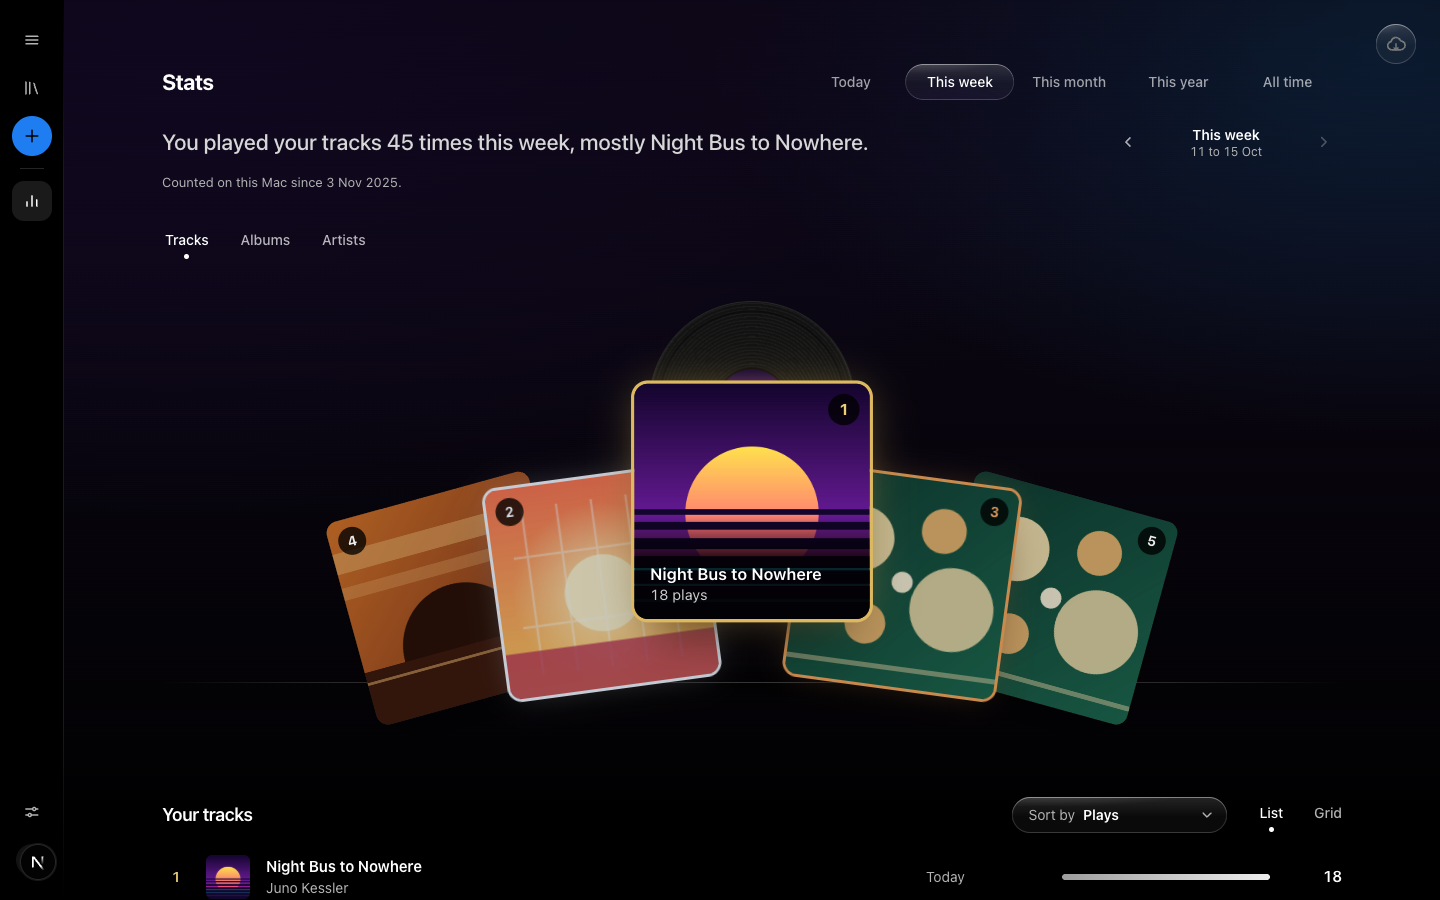
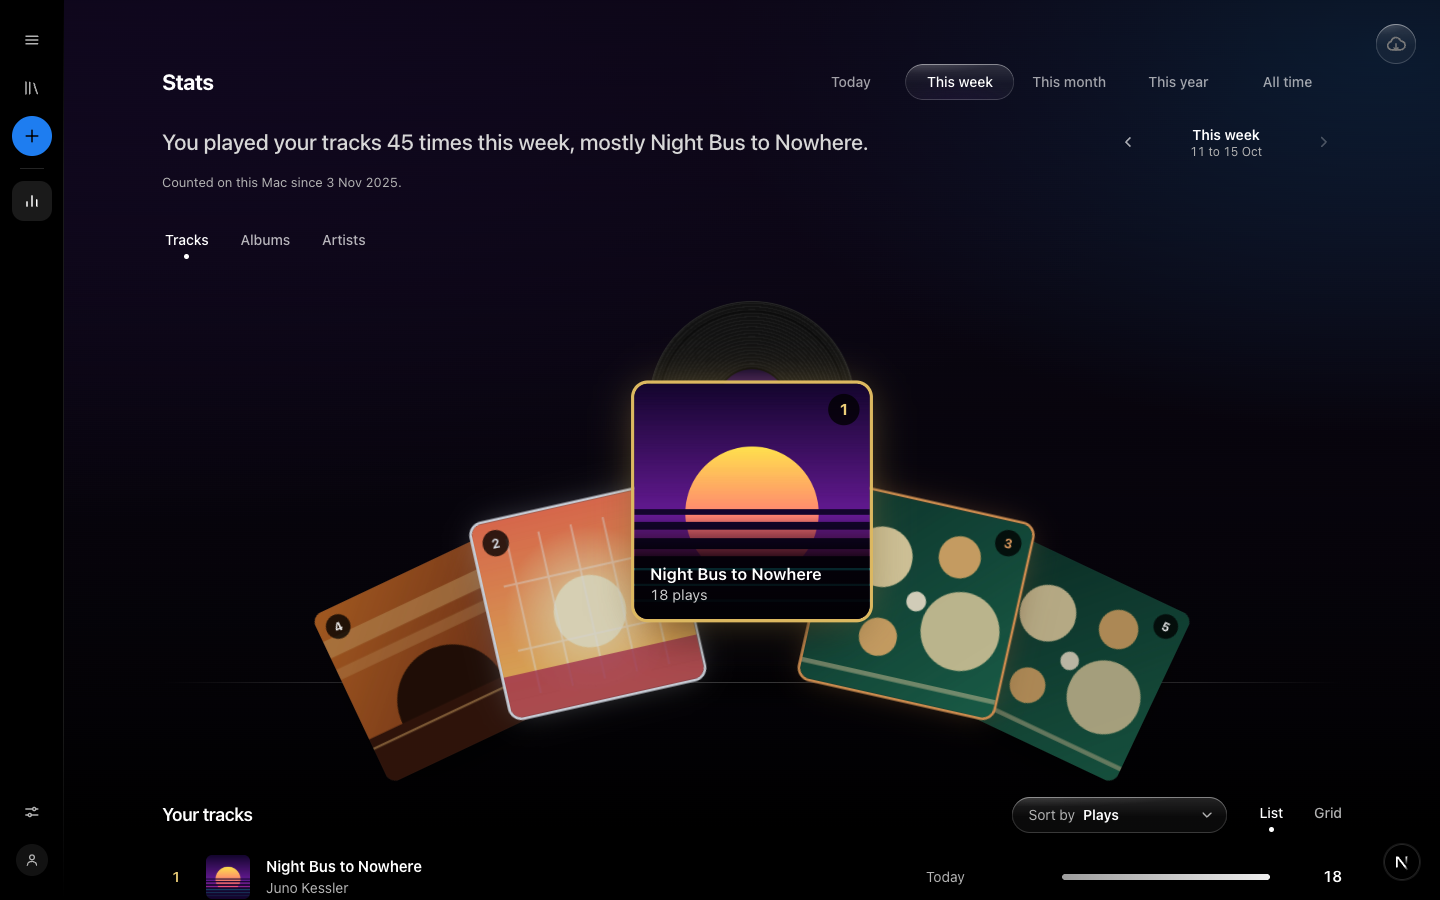
Stats page and shelf: the fan as a wheel of stacked cards, not a spread (#145)
The owner found the sideways spread scrambled; page sleeves now sit on one arc with depth (smaller and darker per step).
The shelf keeps its tight stack of three and gains the same depth and shading.

Claude-Session: https://claude.ai/code/session_016wtvpvRFjMyGctvKw2v9pz

Changed region(s): [[0.5312, 0.4978, 0.8438, 0.8711], [0.2188, 0.4978, 0.5, 0.8711]]

diff --git a/apps/web/src/app/globals.css b/apps/web/src/app/globals.css
@@ -2007,9 +2007,12 @@ body {
  * Stats page (`data-size="page"`, five sleeves, 68 to 210px by the room) are this one set of rules,
  * components/stats/SleeveFan.tsx. Everything is a multiple of --w, the sleeve's width, and the
  * rest of the size is the variables below. Sleeves overlap like a hand of cards, number one in the
- * middle (or the middle of what there is, lib/fan-layout). Per sleeve: --a tilts it, --k orders the
- * fan-out from the middle. The active one lifts, straightens a little and shows its tag, and its
- * record slides out of the top. The fan is tall enough for the lift and for the record.
+ * middle (or the middle of what there is, lib/fan-layout). Per sleeve: --a tilts it, --k is the
+ * steps out from the middle. The page fan is a wheel: every sleeve tilts round one far pivot, so
+ * they sit on one shallow arc, and each step out is a little smaller and darker, like stacked
+ * cards. The shelf keeps its tight stack of three (number one in front) with the same depth and
+ * shade, and no sideways step. The active one lifts, grows, loses its shade, straightens a little and
+ * shows its tag, and its record slides out of the top. The fan is tall enough for the lift and the record.
  * ------------------------------------------------------------------------- */
 .fan {
   --w: 112px;
@@ -2020,29 +2023,40 @@ body {
   --fan-badge-inset: clamp(6px, calc(var(--w) * 0.043), 9px);
   --fan-title: clamp(12px, calc(var(--w) * 0.07), 15px);
   --fan-plays: clamp(11px, calc(var(--w) * 0.062), 13px);
-  /* Page-only extras, off here so the shelf stays as it is: --fan-step moves each sleeve sideways
-     by that many sleeve widths per step from the middle, --fan-tilt scales the tilt, --fan-lift and
-     --fan-pop are how far and how big the active one goes, --fan-dim is the black laid over the rest. */
+  /* The wheel and the stack: --fan-pivot is how far below the sleeve the tilt turns (a bigger
+     number is a shallower arc), --fan-tilt scales each sleeve's angle, --fan-step moves a sleeve
+     sideways by that many sleeve widths per step out (0 keeps all on the arc; unused now), --fan-lift and
+     --fan-pop are how far and how big the active one goes, --fan-depth is how much smaller each step
+     out is, and --fan-shade-base plus --fan-shade per step is the black laid over the others. */
+  --fan-pivot: 330%;
   --fan-step: 0;
   --fan-tilt: 1;
   --fan-lift: 0.232;
   --fan-pop: 1.07;
-  --fan-dim: 0;
+  --fan-depth: 0;
+  --fan-shade-base: 0;
+  --fan-shade: 0;
   /* Room added under the sleeves for the page's caption at a narrow width; nothing otherwise. */
   --fan-base: 0px;
   position: relative;
   height: calc(var(--w) * 2.107);
 }
 .fan[data-size="shelf"] {
+  --fan-depth: 0.07;
+  --fan-shade-base: 0.06;
+  --fan-shade: 0.1;
   margin-top: 2px;
 }
 .fan[data-size="page"] {
   --w: clamp(64px, 22cqw, 210px);
-  --fan-step: 0.34;
-  --fan-tilt: 0.7;
+  --fan-pivot: 410%;
+  --fan-step: 0;
+  --fan-tilt: 1.15;
   --fan-lift: 0.3;
   --fan-pop: 1.12;
-  --fan-dim: 0.2;
+  --fan-depth: 0.06;
+  --fan-shade-base: 0.06;
+  --fan-shade: 0.1;
   height: calc(var(--w) * 2.25);
 }
 .fan-list {
@@ -2080,10 +2094,10 @@ body {
   height: var(--w);
   margin-left: calc(var(--w) / -2);
   list-style: none;
-  /* A pivot well below the shelf, so the sleeves tilt around one point like a hand of cards. */
-  transform-origin: 50% 330%;
+  /* A pivot well below the shelf, so the sleeves tilt around one point like a wheel. */
+  transform-origin: 50% var(--fan-pivot);
   transform: rotate(calc(var(--a) * var(--fan-tilt)));
-  /* The sideways step, on its own property so it composes with the tilt, the lift and the fan-in. */
+  /* The sideways step (0 now), on its own property so it composes with the tilt, the lift and the fan-in. */
   translate: calc(var(--o) * var(--fan-step) * var(--w)) 0;
   transition: transform 300ms cubic-bezier(0.16, 1, 0.3, 1);
 }
@@ -2103,7 +2117,7 @@ body {
   }
 }
 /* The button scales about its own bottom centre; scaling the sleeve itself would swing it out
-   from the far pivot. */
+   from the far pivot. Each step out from the middle is a little smaller (the stack's depth). */
 .fan-hit {
   position: relative;
   display: block;
@@ -2112,6 +2126,7 @@ body {
   border-radius: var(--fan-radius);
   cursor: pointer;
   transform-origin: 50% 100%;
+  transform: scale(calc(1 - var(--k) * var(--fan-depth)));
   transition: transform 300ms cubic-bezier(0.16, 1, 0.3, 1);
 }
 /* A little black over the sleeves that are not chosen; it lets clicks through and takes the
@@ -2122,7 +2137,7 @@ body {
   inset: 0;
   border-radius: inherit;
   background: #000;
-  opacity: var(--fan-dim);
+  opacity: calc(var(--fan-shade-base) + var(--k) * var(--fan-shade));
   pointer-events: none;
   transition: opacity 300ms cubic-bezier(0.16, 1, 0.3, 1);
 }
@@ -2326,17 +2341,17 @@ body {
   line-height: 1.3;
 }
 /* Narrow room (the sleeves would be under about 120px): the caption replaces the in-sleeve tag, and
-   the sleeves step further apart so about 44px of each stays to tap. The tilted fan is about five
-   sleeves wide here, so the sleeve is a fifth of the room plus the stage's side padding: it fits at
-   any width (no fixed minimum to spill past a phone's edge). Desktop is untouched. */
+   the wheel is kept low enough that the caption clears the outer sleeves' corners. The tilted fan
+   is about five sleeves wide here, so the sleeve is a fifth of the room plus the stage's side
+   padding: it fits at any width (no fixed minimum to spill past a phone's edge). */
 @container (max-width: 545px) {
   .fan[data-size="page"] {
     --w: clamp(40px, calc((100cqw + 40px) / 5), 120px);
-    /* Keeps the sleeves at least 48px above the fan's foot, where the caption sits, however small they get. */
-    --fan-base: max(18px, calc(48px - var(--w) * 0.357));
-    --fan-step: 0.56;
-    --fan-lift: 0.45;
-    --fan-pop: 1;
+    /* Keeps the lowest sleeve corners about 54px above the fan's foot, where the caption sits, however small they get. */
+    --fan-base: max(24px, calc(54px - var(--w) * 0.357));
+    --fan-step: 0;
+    --fan-lift: 0.6;
+    --fan-pop: 1.12;
     height: calc(var(--w) * 2.25 + var(--fan-base));
   }
   .fan[data-size="page"] .fan-tag {

diff --git a/docs/design.md b/docs/design.md
@@ -344,9 +344,7 @@ eyebrows still apply to those labels.
     #4 and #5 outside; with fewer than five the same rule runs and the set is centred, no empty
     slots, the tilt per step widening as the fan thins (`lib/fan-layout.ts`); no items means the
     period's empty line, no fan. Hover or focus lifts a sleeve and slides its record out, with name
-    and plays; artists are round discs. The page fan steps its sleeves sideways as well as tilting
-    them, so each shows most of its cover; the chosen one lifts higher and the rest dim a little,
-    and ← → move focus through them left to right; the lift stays on the keyboard-focused sleeve when the pointer leaves. Under about 545px of room the chosen sleeve's name and plays sit in a caption under the fan instead of on the cover, and the narrow fan steps wider so at least 45px of each sleeve stays to tap in every selection state (measured at 390px).
+    and plays; artists are round discs. The page fan is a wheel: the sleeves tilt round one far pivot, so they sit on one shallow arc (not a half circle), and it is stacked with depth, each step out a little smaller and darker, like cards. The chosen one lifts, grows and loses its shade, and ← → wheel through them left to right; the lift stays on the keyboard-focused sleeve when the pointer leaves. The sidebar's shelf is the original tight stack of three, number one in front, with the same depth and shading. Under about 545px of room the chosen sleeve's name and plays sit in a caption under the fan instead of on the cover, and the narrow wheel lifts the chosen sleeve higher (0.6 of its width) so it clears its neighbours: at least 47px of each sleeve stays to tap in every selection state at 390px (about 41px at 360px and 36px at 320px).
   - **Activation**: a sleeve, list row and grid tile is a button. Enter, Space or click opens a
     track's or album's release; an artist opens the Library filtered to that artist (its search
     query). A mouse only lifts on hover. On touch the first tap lifts and the second opens; a tap
